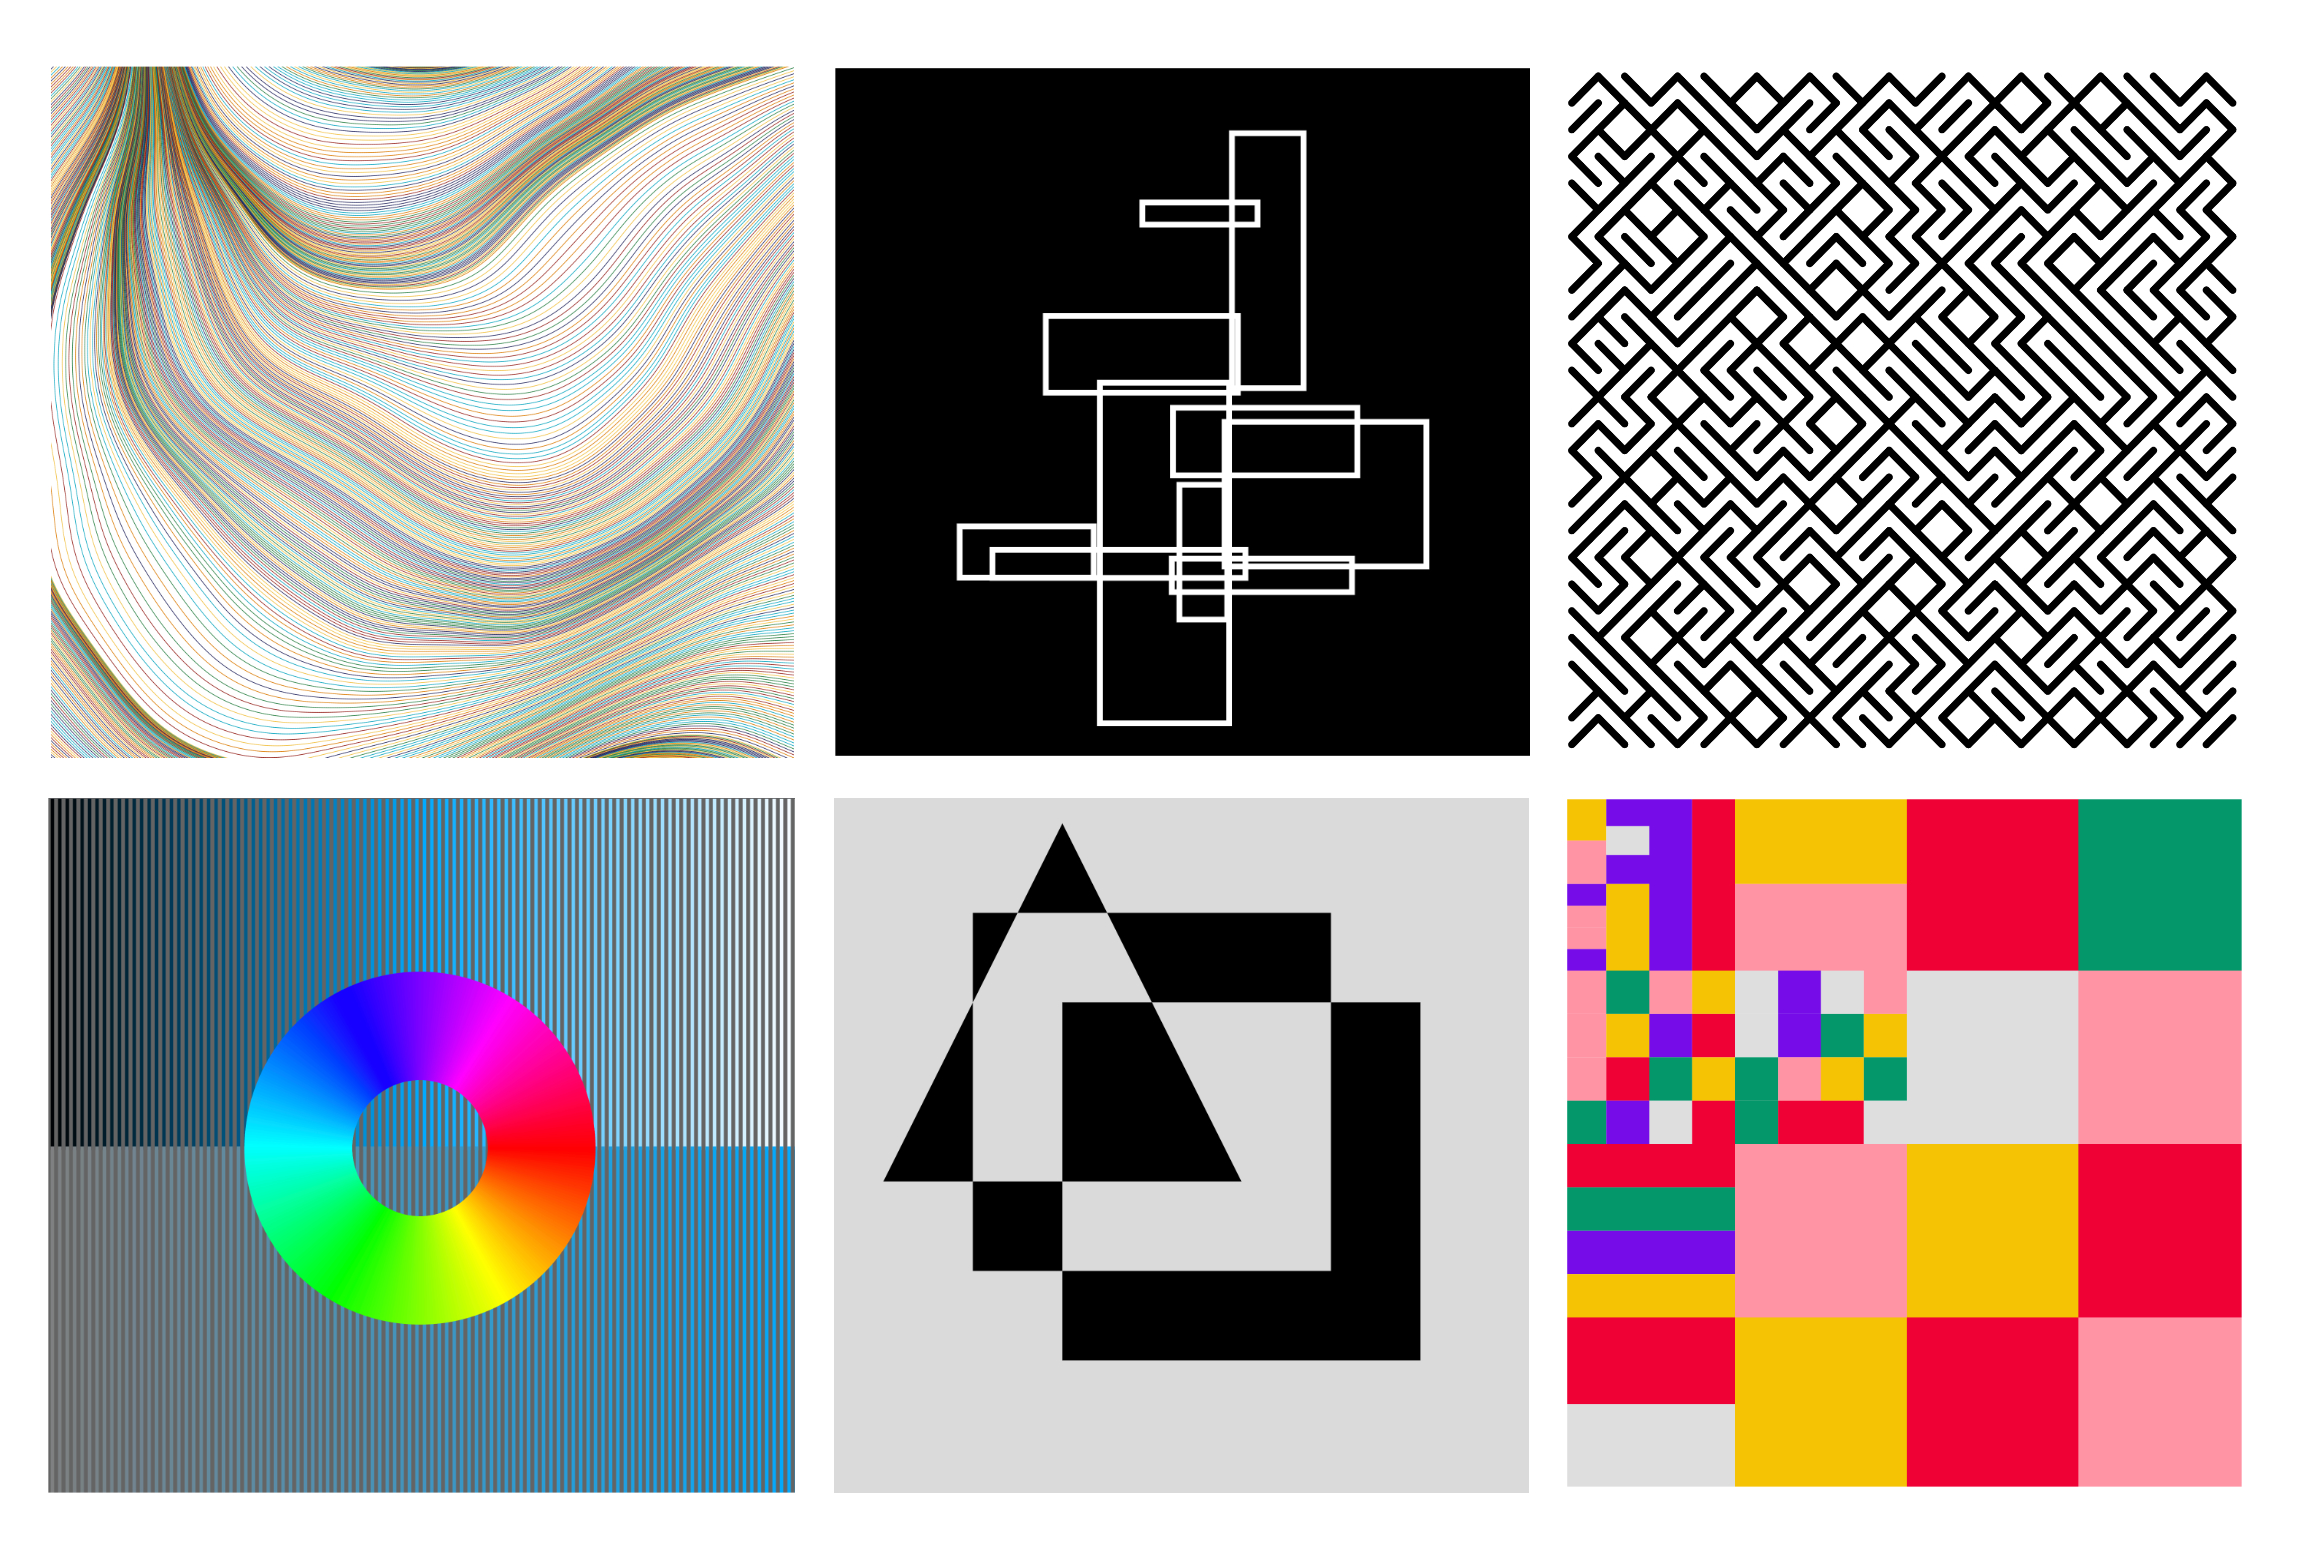
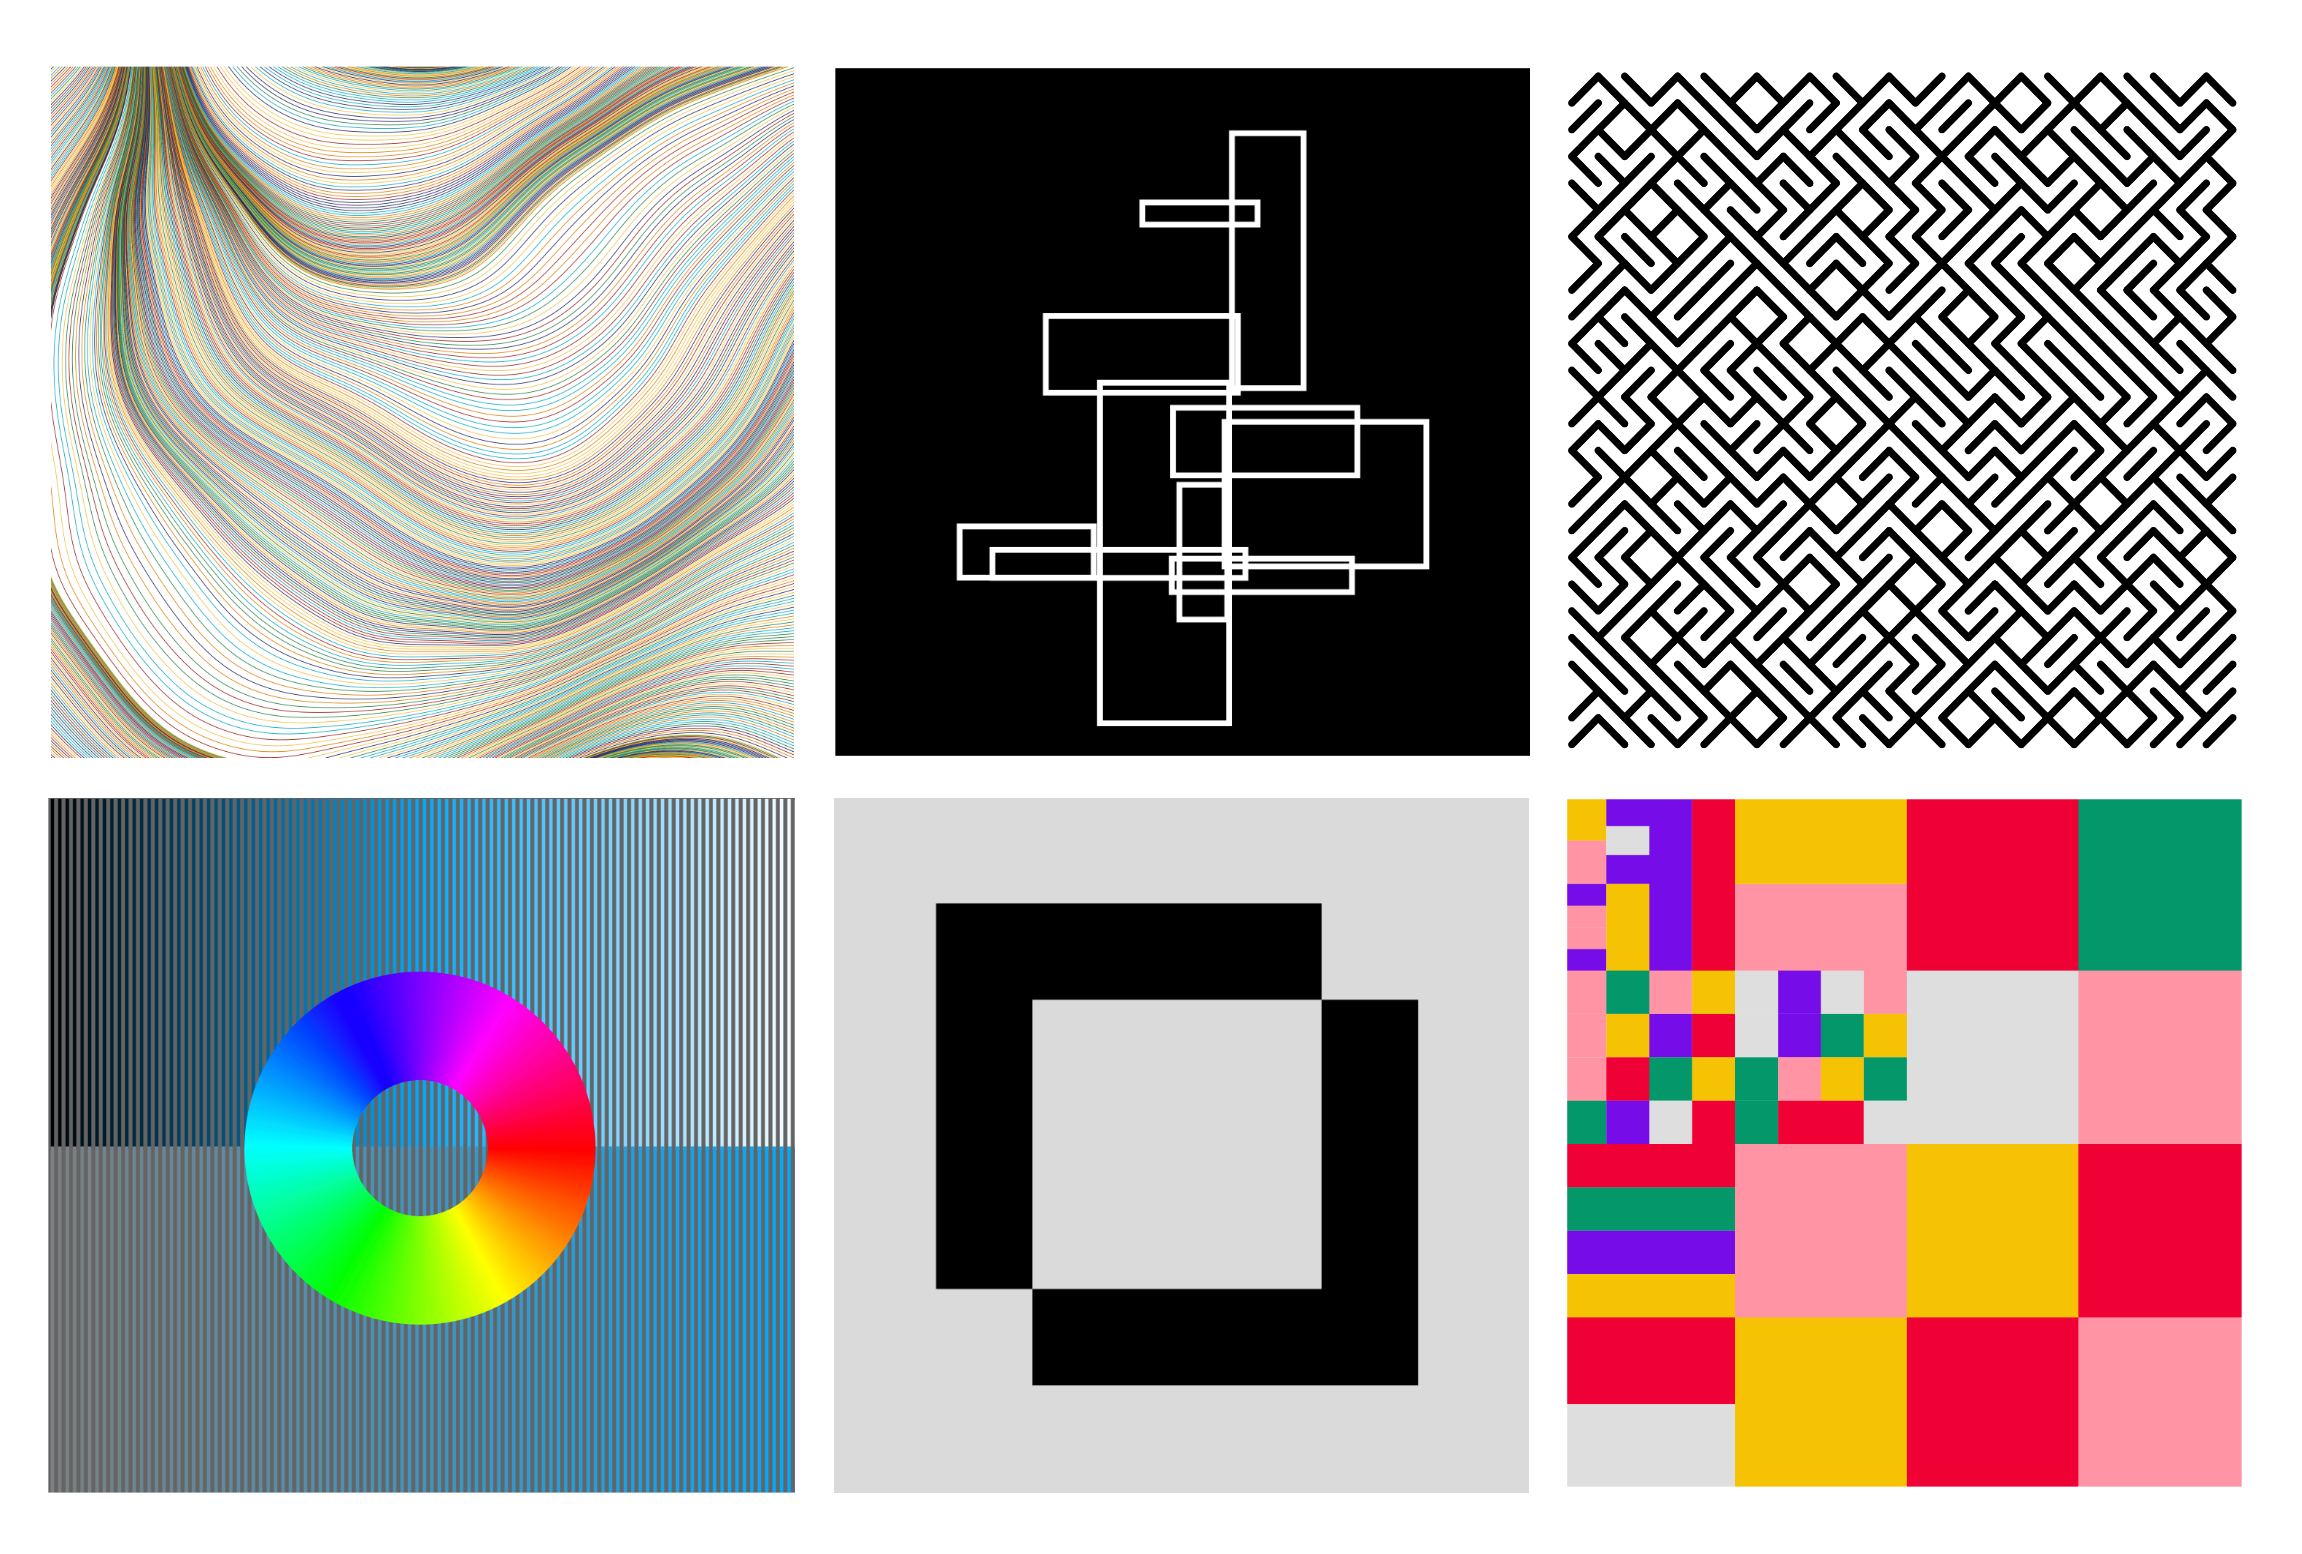
updating img

Changed region(s): [[0.3701, 0.5251, 0.6169, 0.8958]]

diff --git a/examples/002-translate/sketch.js b/examples/002-translate/sketch.js
@@ -22,13 +22,13 @@ function draw(){
   rect(x, y, size, size);
   pop();
   
-  push();
+  /*push();
   translate(-size / 4, -size / 4);
   triangle(
     x, y - size / 2,
     x + size / 2, y + size / 2,
     x - size / 2, y + size / 2
-  );
+  );*/
 }
 
 function windowResized () {

diff --git a/examples/008-patterns/sketch.js b/examples/008-patterns/sketch.js
@@ -25,7 +25,6 @@ function draw(){
     }
   }
   pop();
-  
 }
 
 function drawRandomLine(x, y, step) {
